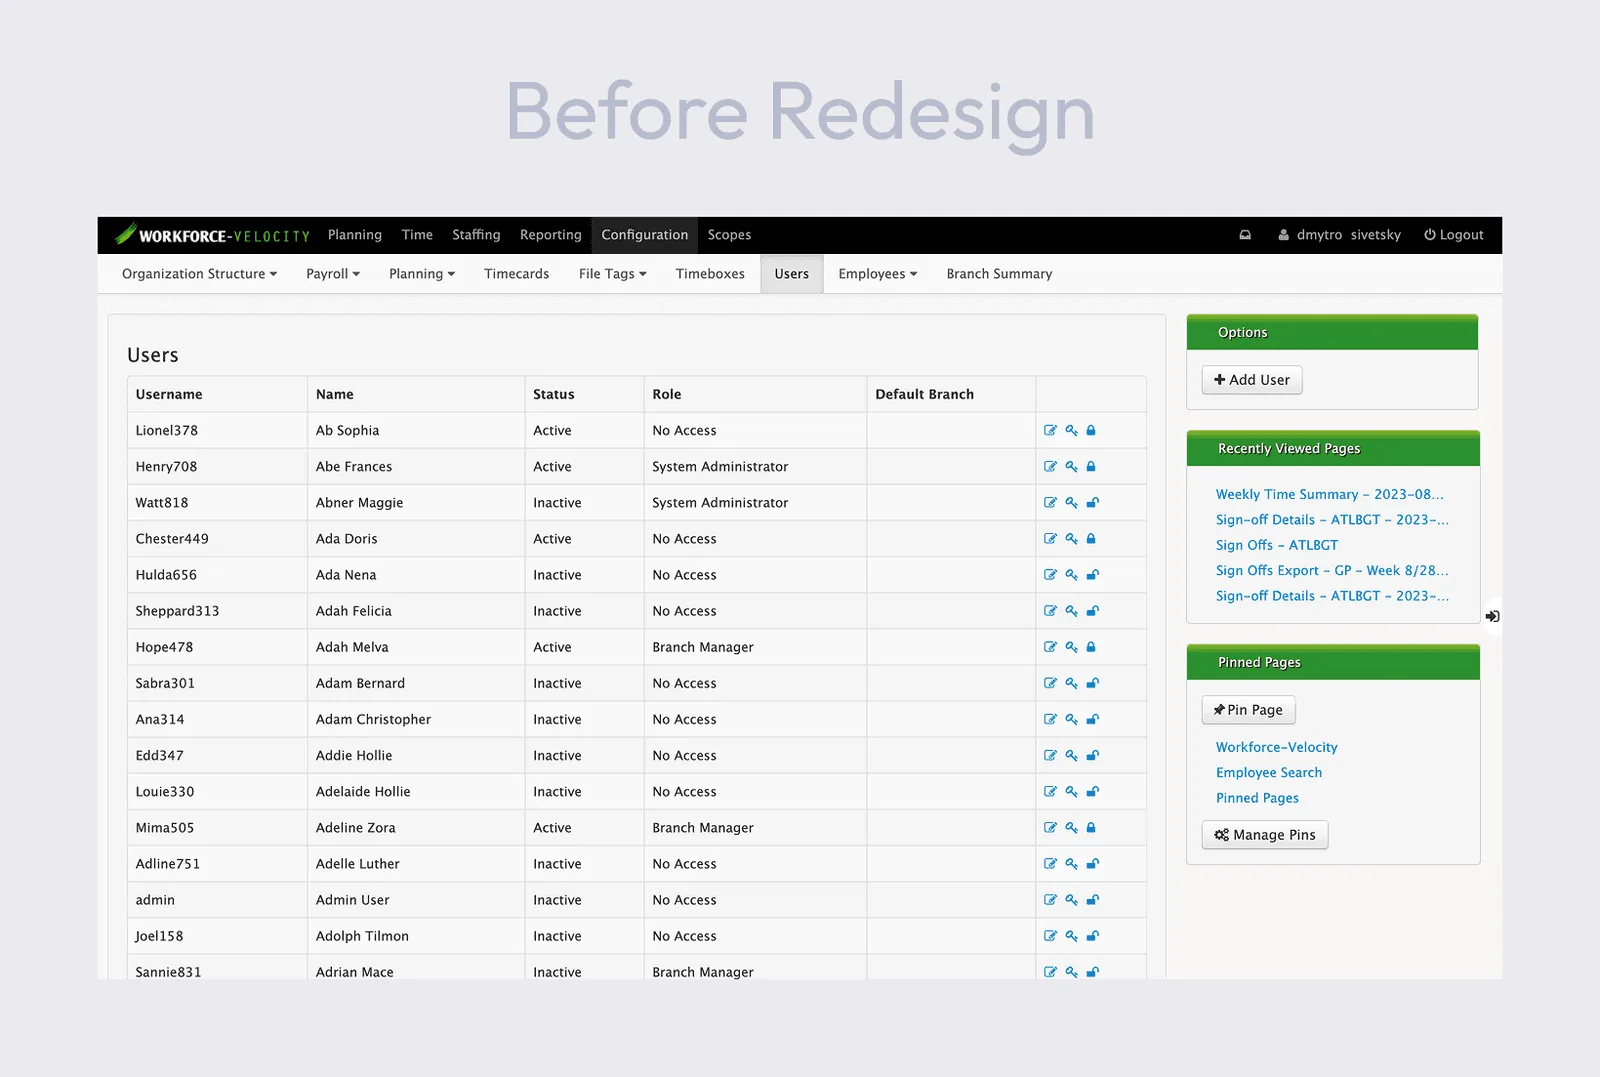
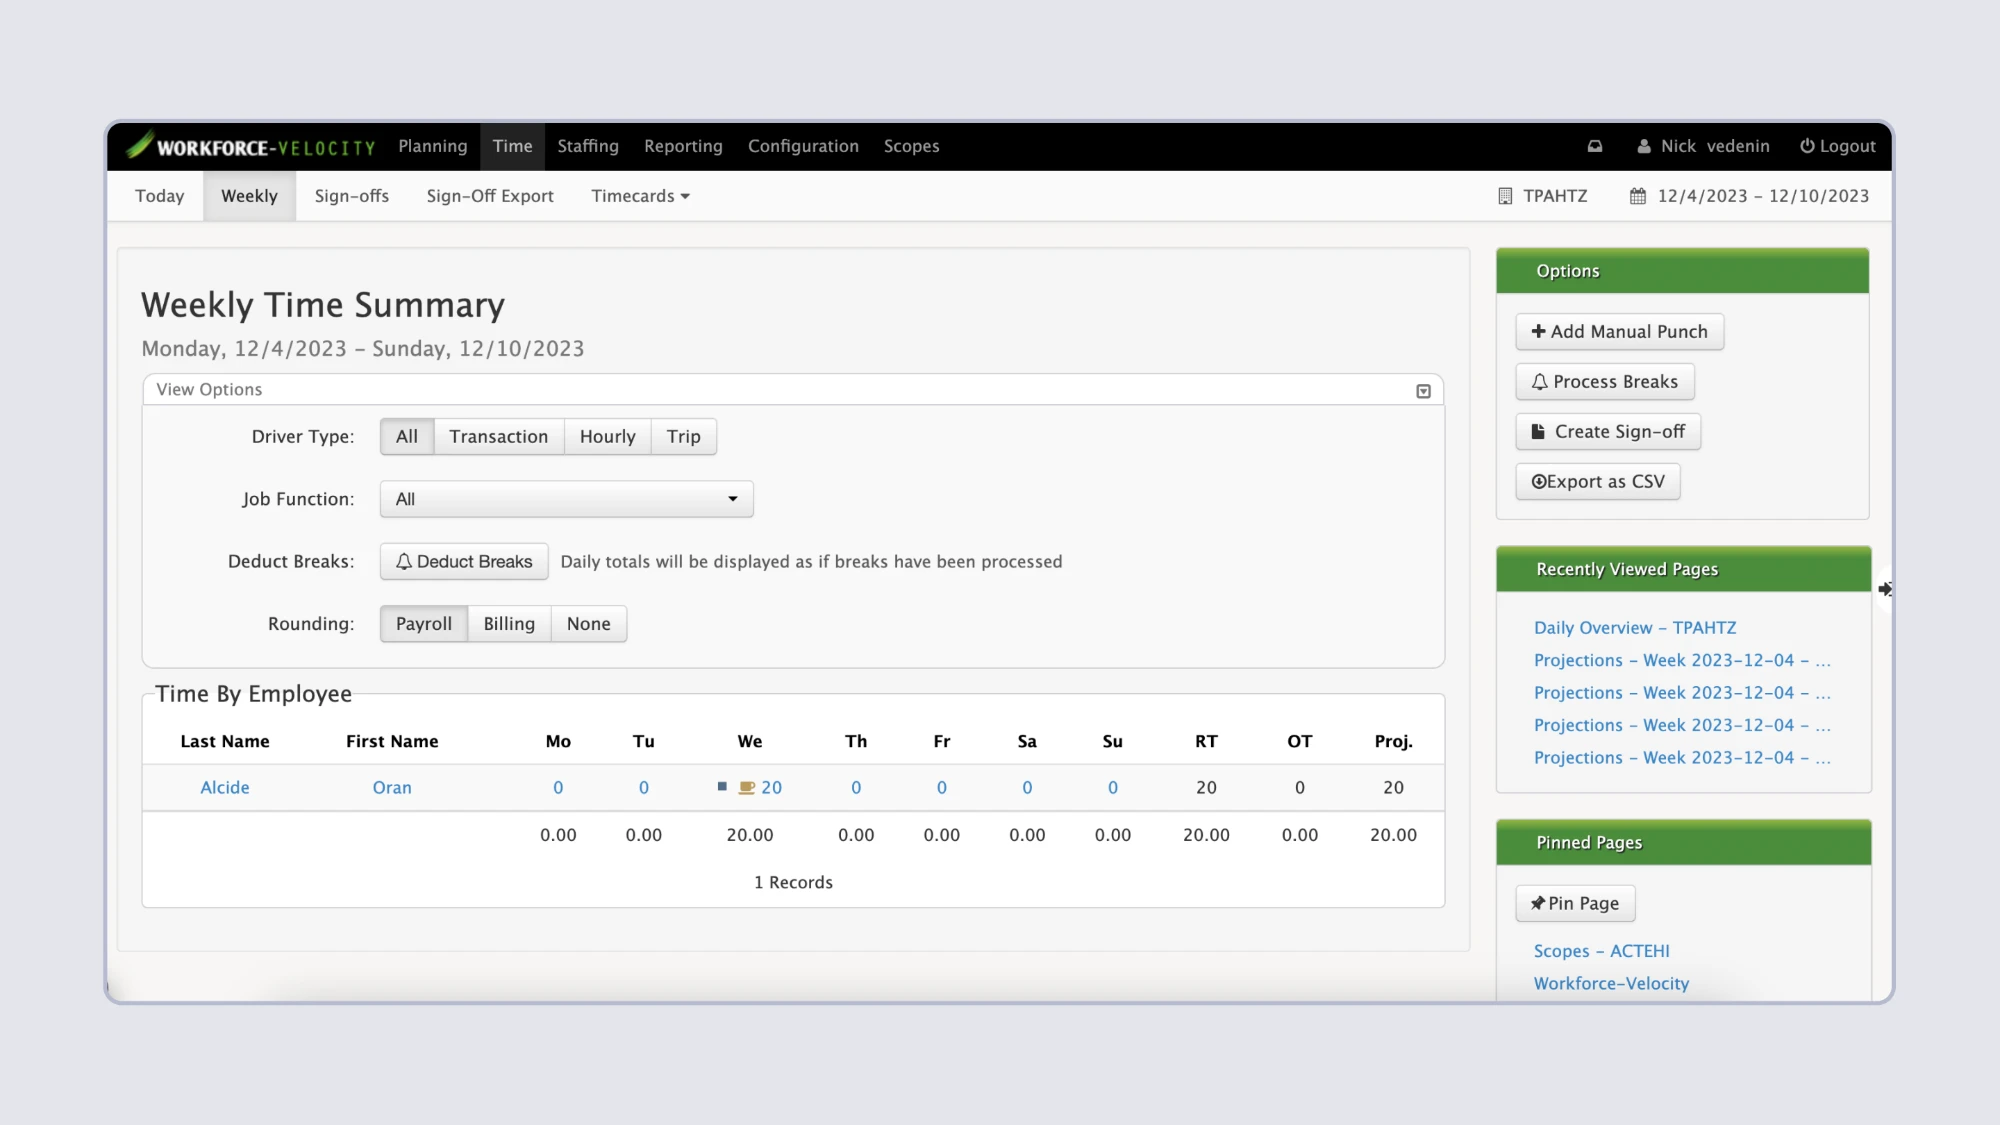
Cases: add Centegix, new Workforce Velocity media, copy tweaks

diff --git a/src/data/site.ts b/src/data/site.ts
@@ -41,11 +41,12 @@ export const services = [
   { title: 'Uncharted problems', hue: 50, text: "We’re building something nobody has built before. No playbook, no precedent, no obvious answer. Are you in?" },
 ];
 
-/** About intro: the name is set apart (rendered grey). */
+/** About intro: the name and the closing phrase (tail) are set apart (rendered grey). */
 export const intro = {
   lead: "I'm ",
   accent: 'Dim',
-  text: '. I live in Lisbon and design the kind of software nobody posts on Dribbble but everybody depends on: the systems behind schools, hospitals, banks and HR teams.',
+  text: '. I live in Lisbon and design the kind of software nobody posts on Dribbble but everybody depends on: ',
+  tail: 'the systems behind schools, hospitals, banks and HR teams.',
 };
 
 /** About "Listening to" record deck. One record is picked at random on every visit — add yours to the list.

diff --git a/CLAUDE.md b/CLAUDE.md
@@ -21,6 +21,8 @@ Brief: impress by look and motion first, cases second. Simple structure, easy ca
 - `src/scripts/work.ts`: one render loop for 3 views — showcase (3D ring, auto-rotates), grid, slider (auto-drifts).
   Levitation, per-card tilt (10°), whole-stage tilt (4–6°, bottom 120px dead zone), hover copy rides the card tilt.
 - `src/scripts/case.ts`: case overlay + Input/Reasoning/Process/Outcomes accordion synced to scroll and clickable.
+  Layout (Figma V0 · B, white sheet): media LEFT, story column RIGHT (solid dark hug-width "Visit" CTA on top, then the accordion;
+  the Outcomes panel carries the short text + metric rows with 48px numbers). No footer, no counter.
 - `src/scripts/pages.ts`: Services hover preview, About SUMMON ME dock effect (quickTo — never `overwrite`), Lab pull-back.
 - `src/scripts/motion.ts`: motion tokens (eases, durations, staggers). `dots.ts`: polka-dot cursor field, currently **off**
   (canvas commented out in `WorkStage.astro`).

diff --git a/src/content/cases/workforce-velocity.md b/src/content/cases/workforce-velocity.md
@@ -31,6 +31,10 @@ sections:
   outcomes:
     text: "Usability went to the next level: simpler UX and UI, new navigation and search to find information fast, better learnability and onboarding, and workflows tuned for each user type. Redesigned flows reached a 94% completion rate, and only two users asked for onboarding after the switch."
     media:
+      - { kind: image, src: "/work/wfv/m8.webp", alt: "Tablet mockup" }
+      - { kind: image, src: "/work/wfv/m7.webp", alt: "Job functions" }
+      - { kind: image, src: "/work/wfv/m9.webp", alt: "Seamless integration" }
       - { kind: image, src: "/work/wfv/m5.webp", alt: "Platform in use" }
       - { kind: image, src: "/work/wfv/m6.webp", alt: "Client review" }
+link: { label: "visit Workforce Velocity", url: "#" }
 ---

diff --git a/src/content/cases/centegix.md b/src/content/cases/centegix.md
@@ -1,13 +1,14 @@
 ---
-title: "Coming soon"
-task: "A new case is on its way. Placeholder until the real one lands."
-client: "Placeholder"
+title: "Centegix"
+task: "Product design for Centegix. Case details are on their way."
+client: "Centegix"
 order: 6
 year: 2026
 country: "PT"
 services: ["Product design"]
 platform: desktop
-summary: "Placeholder case."
+summary: "Product design for Centegix."
+cover: "/work/centegix/cover.webp"
 hue: 160
 sections:
   input:
@@ -26,4 +27,5 @@ sections:
     text: "Placeholder text. Replace with the results."
     media:
       - { kind: image, alt: "Placeholder" }
+link: { label: "visit Centegix", url: "#" }
 ---

diff --git a/src/content/cases/linkit.md b/src/content/cases/linkit.md
@@ -32,5 +32,5 @@ sections:
     text: "A simpler information architecture made the platform much easier to navigate. Gradual rollout let it evolve without overwhelming users, which led to higher engagement and satisfaction, and continuous testing removed pain points for a faster, more intuitive experience."
     media:
       - { kind: image, src: "/work/linkit/m6.webp", alt: "Client review" }
-link: { label: "Visit LinkIt", url: "https://www.linkit.com/" }
+link: { label: "visit LinkIt", url: "https://www.linkit.com/" }
 ---

diff --git a/src/content/cases/design-system.md b/src/content/cases/design-system.md
@@ -33,4 +33,5 @@ sections:
     text: "The design system brought unity to the bank's products: a cohesive identity that still adapts to each region, streamlined UI and UX across every platform, and a stronger global brand. The result is one product line that reinforces the client's global presence while serving local markets."
     media:
       - { kind: image, src: "/work/design-system/m6.webp", alt: "Design system guide" }
+link: { label: "visit Design System", url: "#" }
 ---

diff --git a/src/content/cases/ademrius.md b/src/content/cases/ademrius.md
@@ -33,4 +33,5 @@ sections:
     text: "The platform consolidated provider roles and streamlined patient interactions. Booking, telemedicine and monitoring in one place raised patient engagement and satisfaction, reduced the administrative load on providers, and made care management more efficient."
     media:
       - { kind: image, src: "/work/ademrius/m6.webp", alt: "Client testimonial" }
+link: { label: "visit Ademrius", url: "#" }
 ---

diff --git a/src/content/cases/bluepallet.md b/src/content/cases/bluepallet.md
@@ -32,4 +32,5 @@ sections:
     text: "A new exchange flow shares private information only on mutual consent, so buyers and sellers can stay anonymous during early negotiations and still network. Daily and monthly active users grew by 151%, and the number of users by 20%."
     media:
       - { kind: image, src: "/work/bluepallet/m6.webp", alt: "Client review" }
+link: { label: "visit Bluepallet", url: "#" }
 ---
